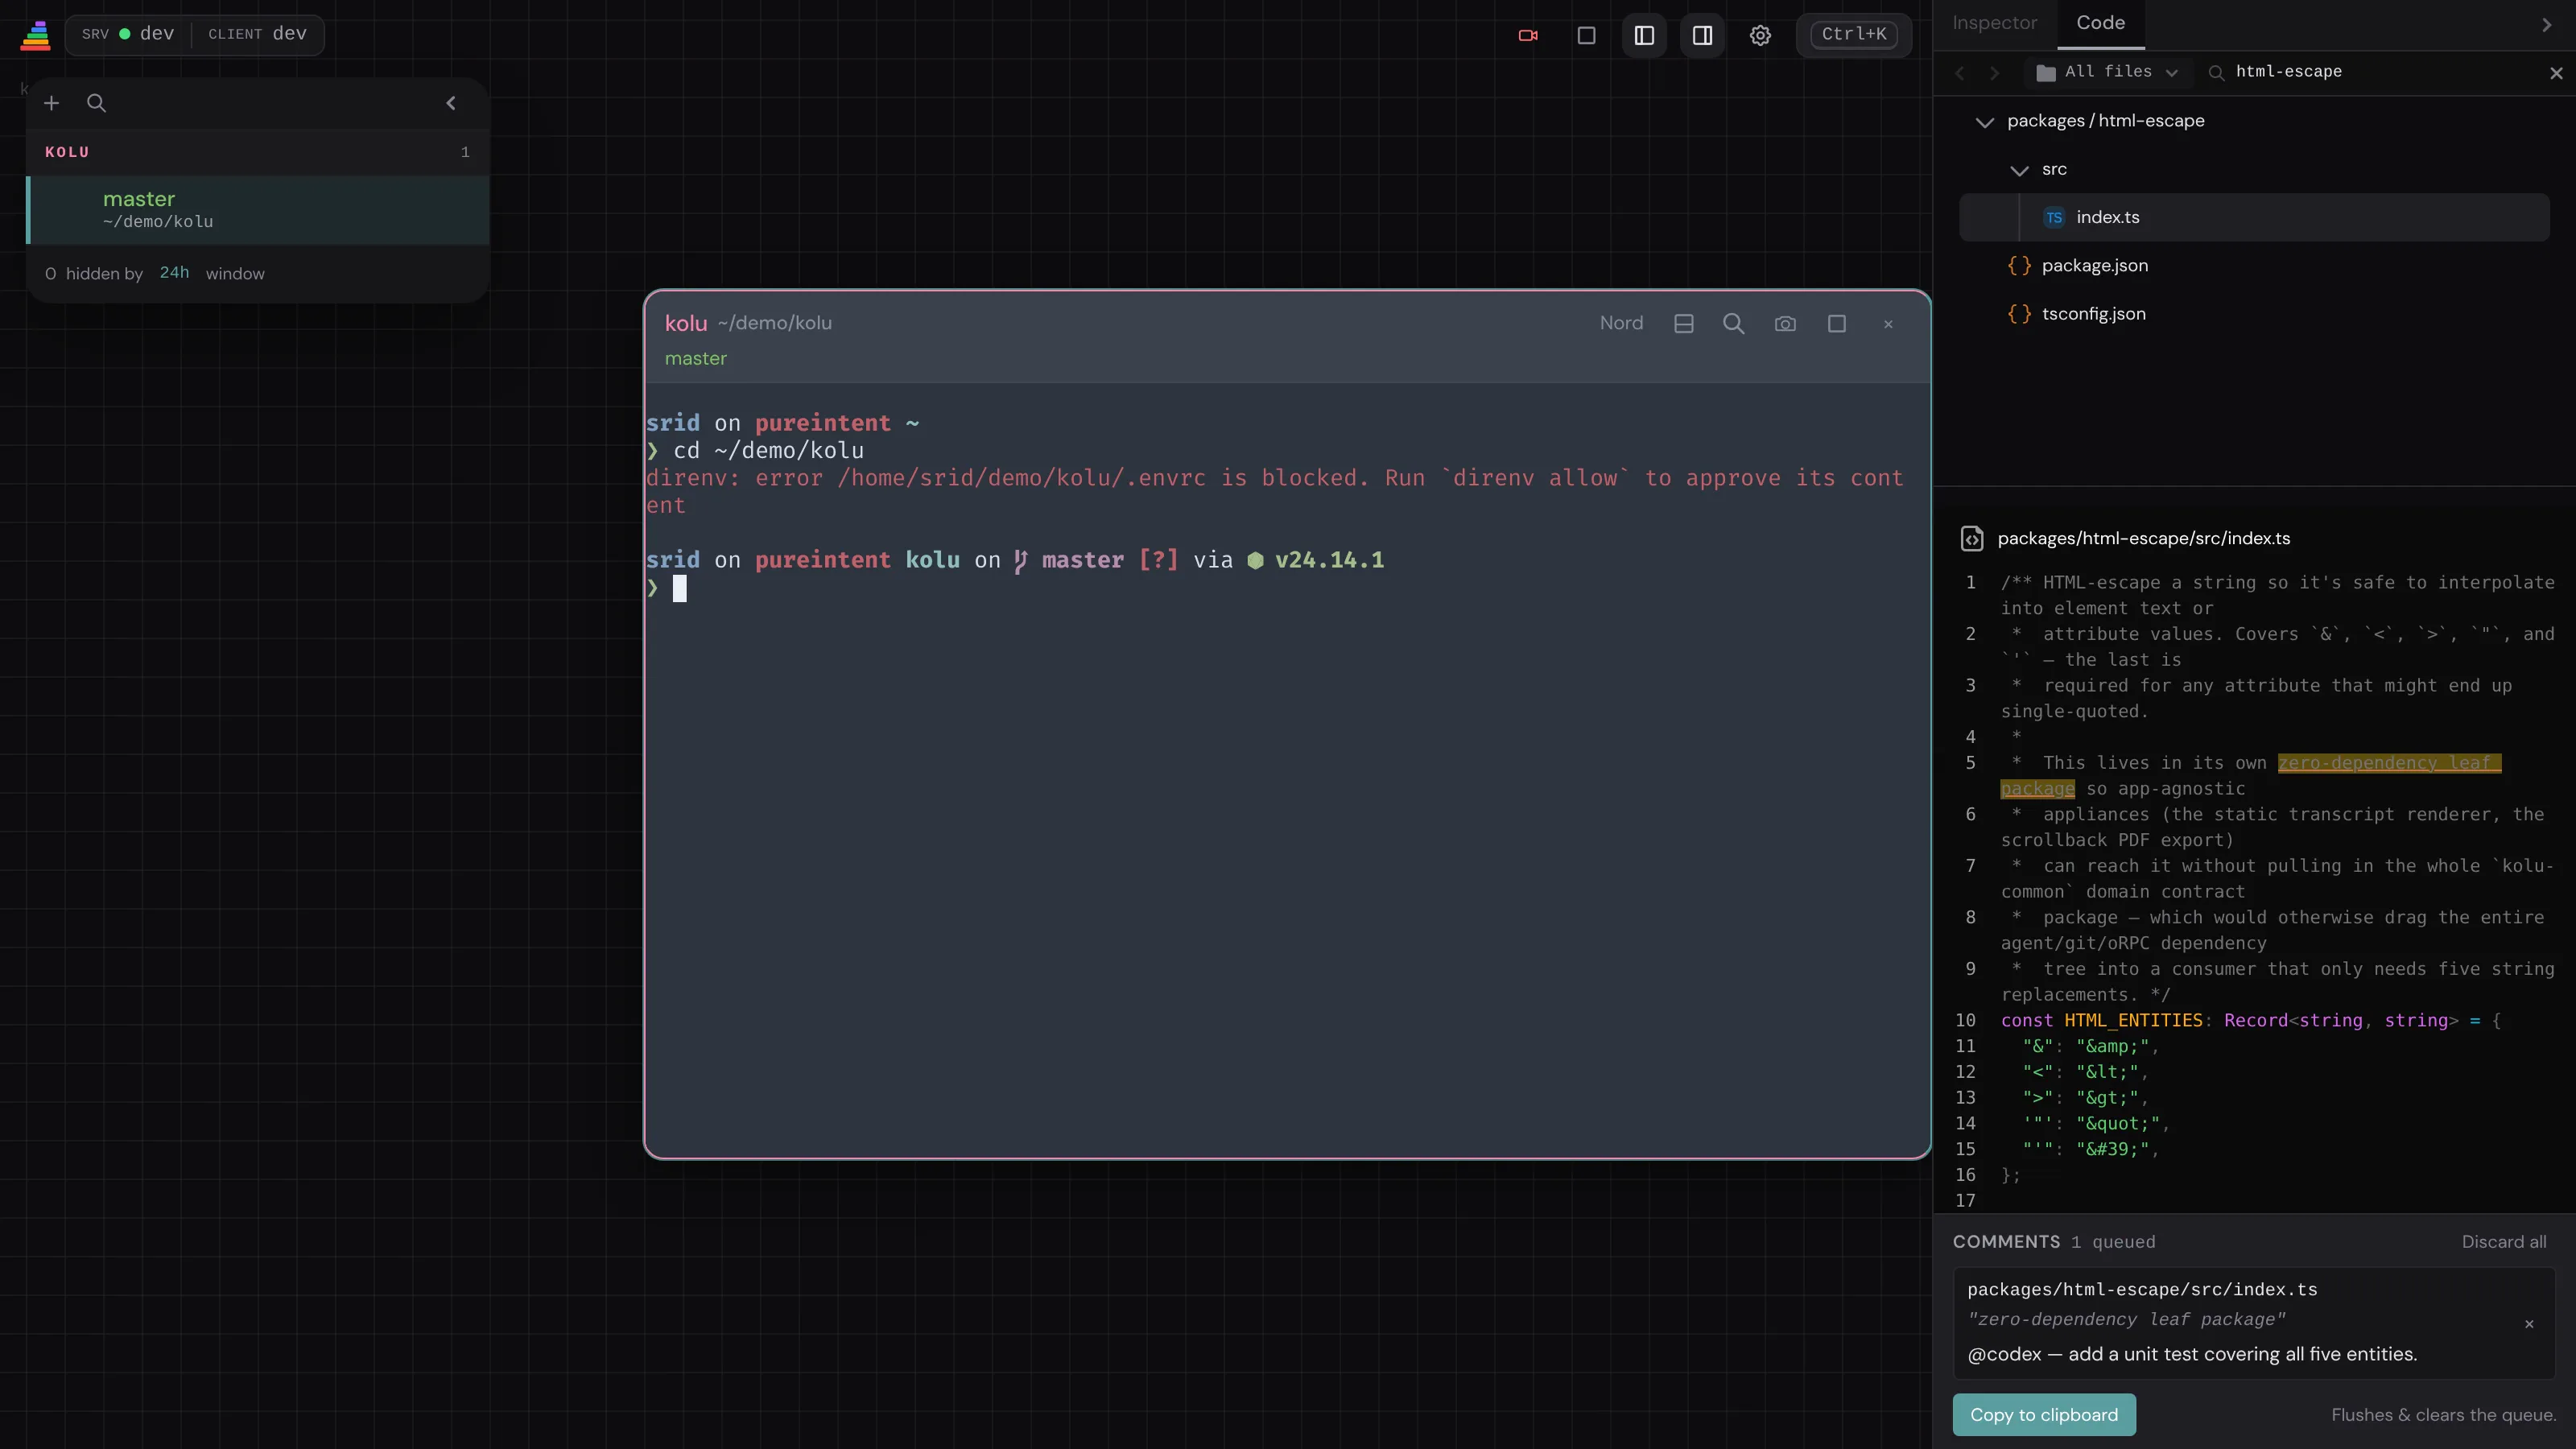
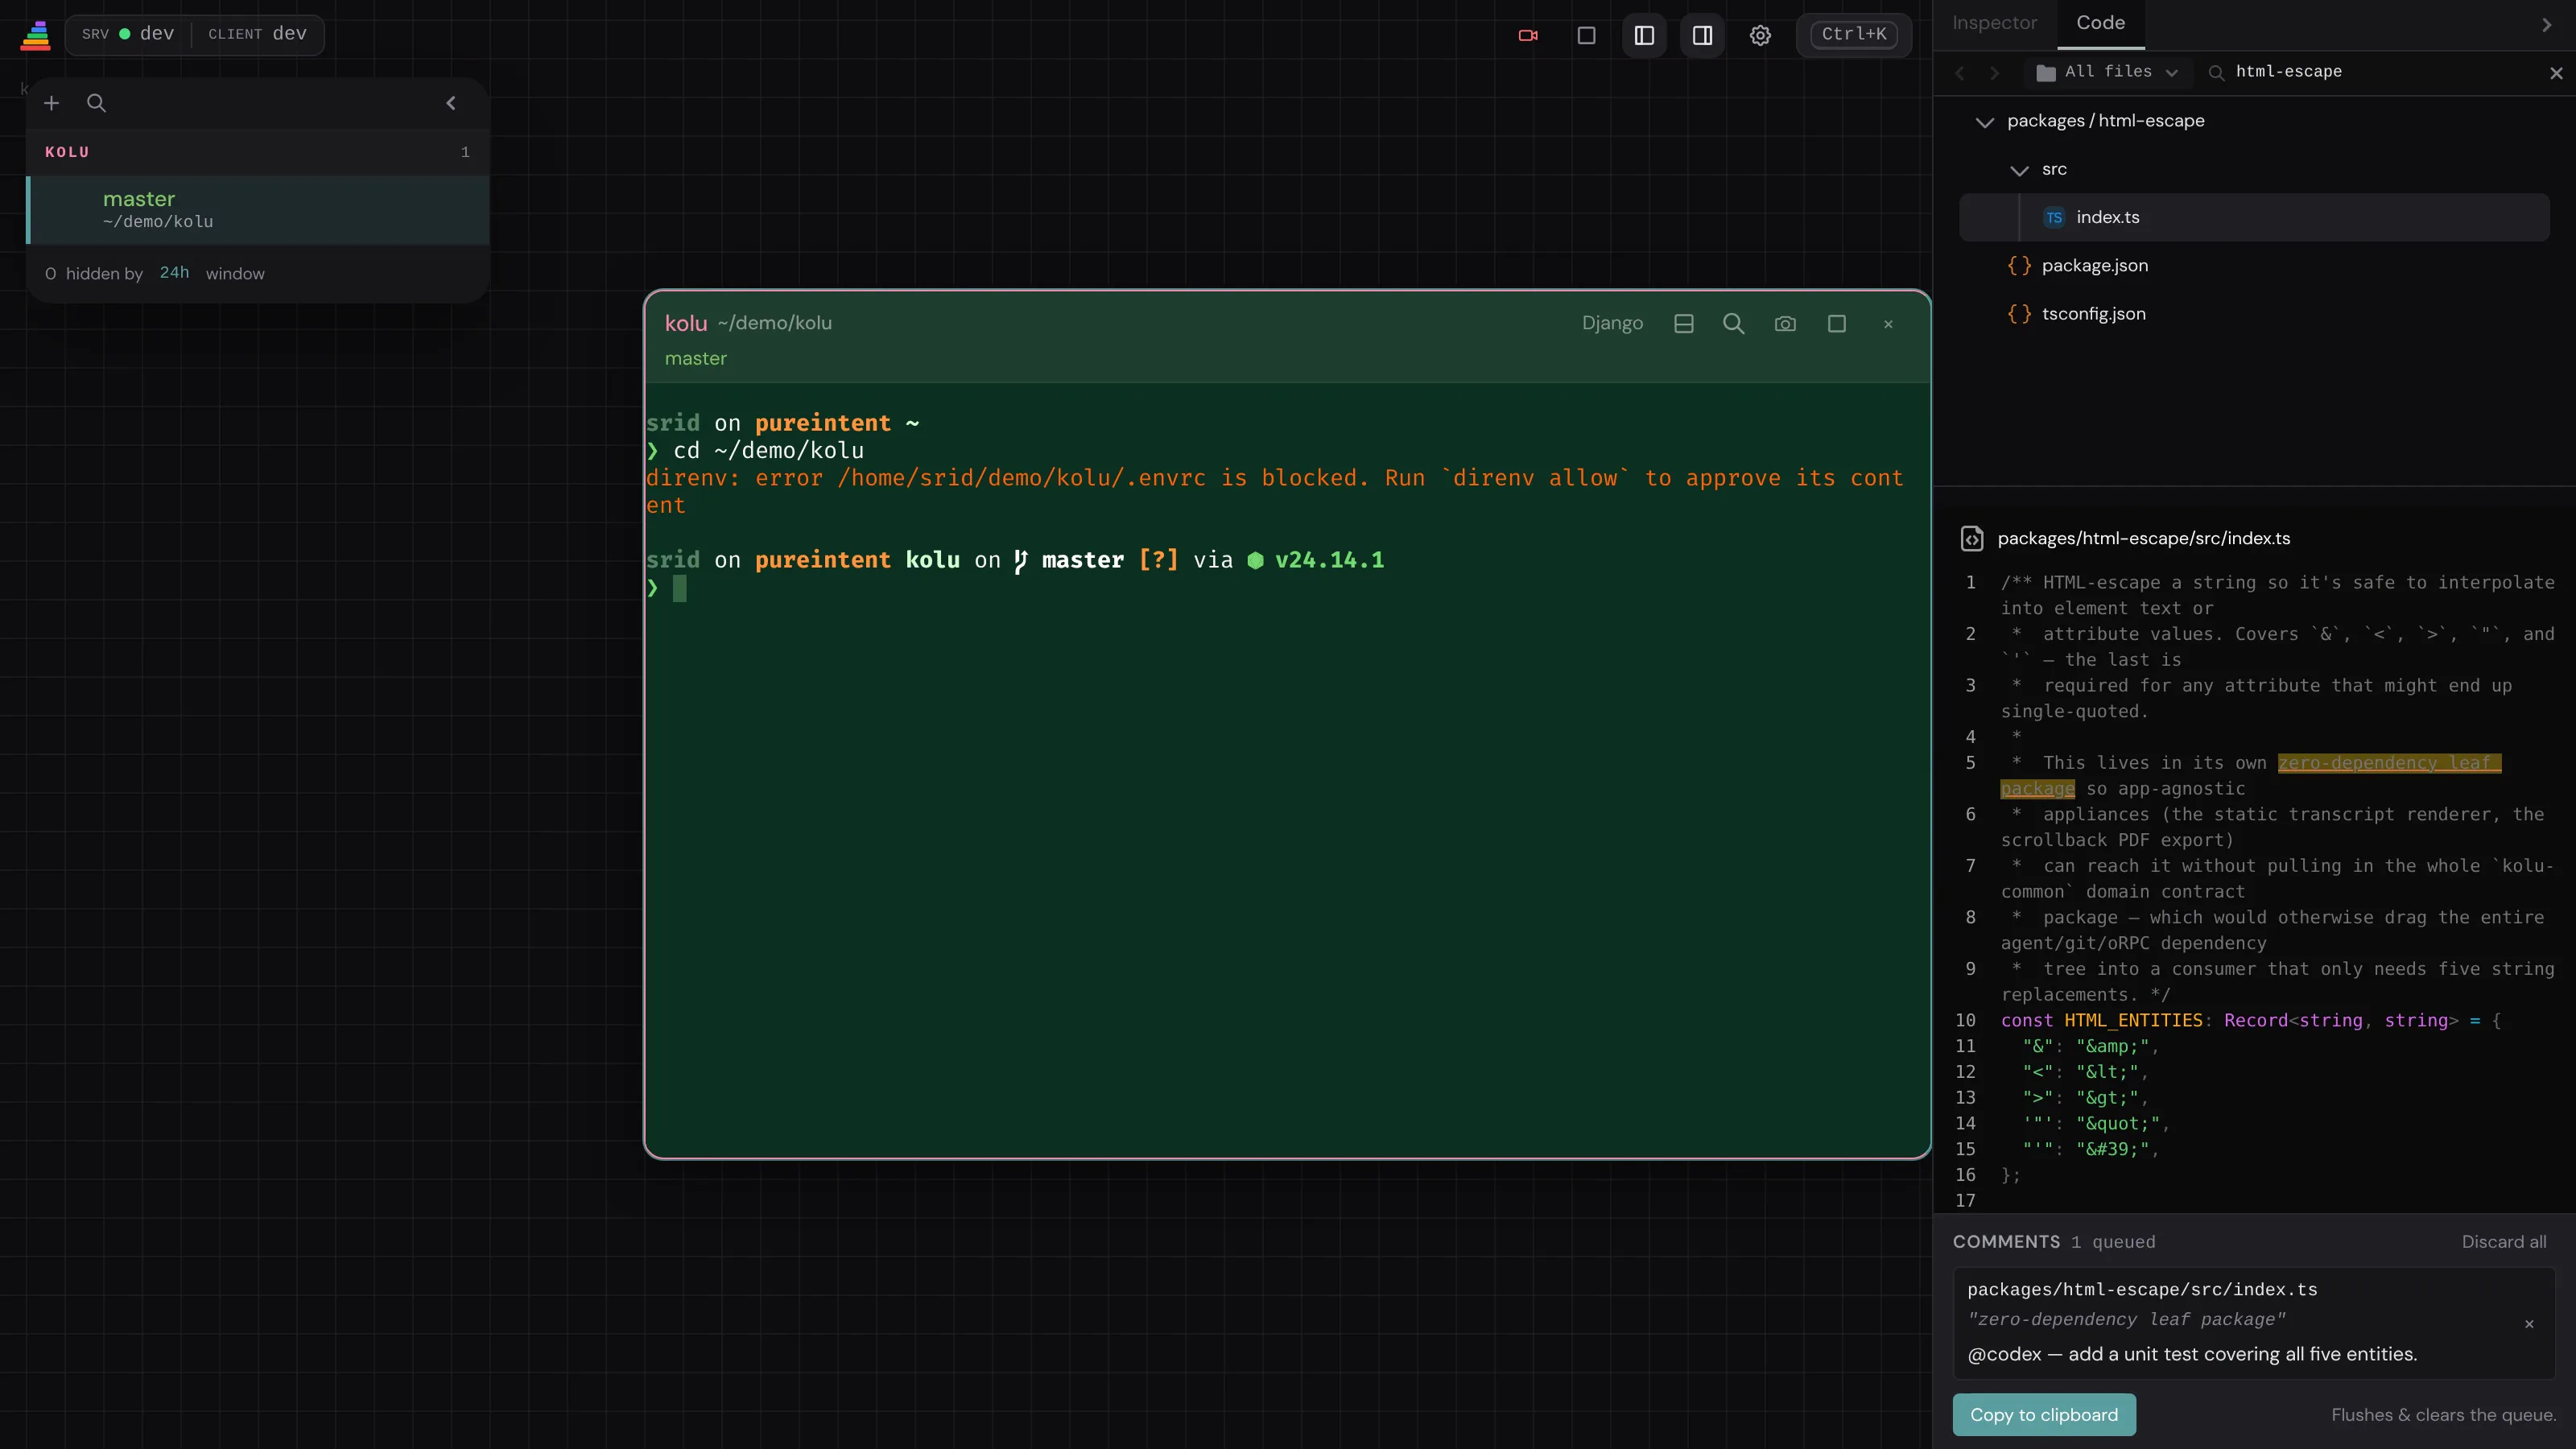
feat(screencast): code-review clip → Django theme (green)
Dracula (new-terminal) and Nord (code-review) read too similar — both dark-cool.
Swap code-review to Django, whose forest-green background (#0b2f20) is plainly
distinct. Re-captured; passes. Final spread: Dracula (purple) · Vaughn (teal) +
Catppuccin Latte (light) · Django (green).

Changed region(s): [[0.25, 0.1867, 0.75, 0.8089]]

diff --git a/packages/tests/screencast/recordings/code-review-demo.recording.ts b/packages/tests/screencast/recordings/code-review-demo.recording.ts
@@ -48,7 +48,7 @@ function ensureClone(repo: { url: string; dir: string }): void {
 export const recording: Recording = {
   name: "code-review-demo",
   chrome: "app",
-  theme: "Nord", // distinct per recording (new-terminal=Dracula, dock-alert=Vaughn/Latte)
+  theme: "Django", // distinct per recording (new-terminal=Dracula, dock-alert=Vaughn/Latte)
   display: { hideRightPanel: true, hideMinimap: true }, // panel starts collapsed; we open it on camera
   viewport: { width: 1600, height: 900 },
   // Payoff is the selected source + comment composer; sample it near the end.
@@ -58,7 +58,7 @@ export const recording: Recording = {
 
     // A terminal in kolu — the Code tab browses the active terminal's repo.
     await clearCanvas(world, 800);
-    await createTerminalByClick(world, "Nord");
+    await createTerminalByClick(world, "Django");
     await pause(world, 400);
     await world.terminalRun("cd ~/demo/kolu");
     await pause(world, 1000); // let the cwd/repo register for the Code tab

diff --git a/packages/tests/screencast/README.md b/packages/tests/screencast/README.md
@@ -55,7 +55,7 @@ from `packages/terminal-themes`), so the three look visually different.
 | --- | --- | --- | --- | --- | --- | --- |
 | `new-terminal-demo` | Dracula | ~28s | ~2.0 MB | ~1.4 MB | ~29 KB | `/welcome` §02 |
 | `dock-alert-demo` | Vaughn + Catppuccin Latte | ~29s | ~2.5 MB | ~1.7 MB | ~0.13 MB | `/` (home hero) |
-| `code-review-demo` | Nord | ~15s | ~0.9 MB | ~0.7 MB | ~0.11 MB | `/welcome` §03 |
+| `code-review-demo` | Django | ~15s | ~0.9 MB | ~0.7 MB | ~0.11 MB | `/welcome` §03 |
 
 `dock-alert-demo` is the richest clip: it opens on an empty canvas, **clicks the
 "+"** to create terminals (every on-camera click is telegraphed with a coral